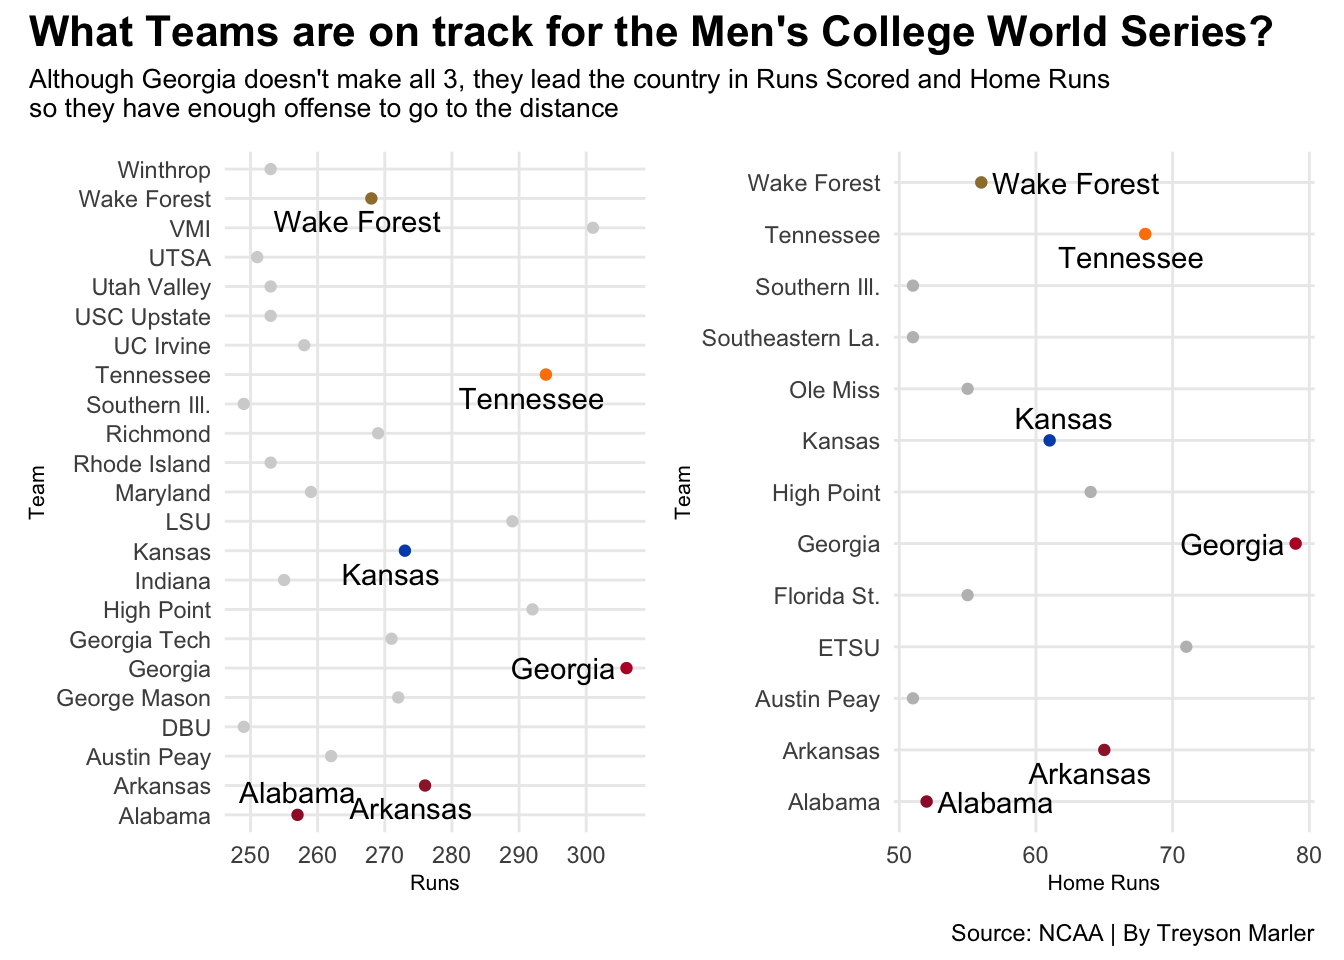
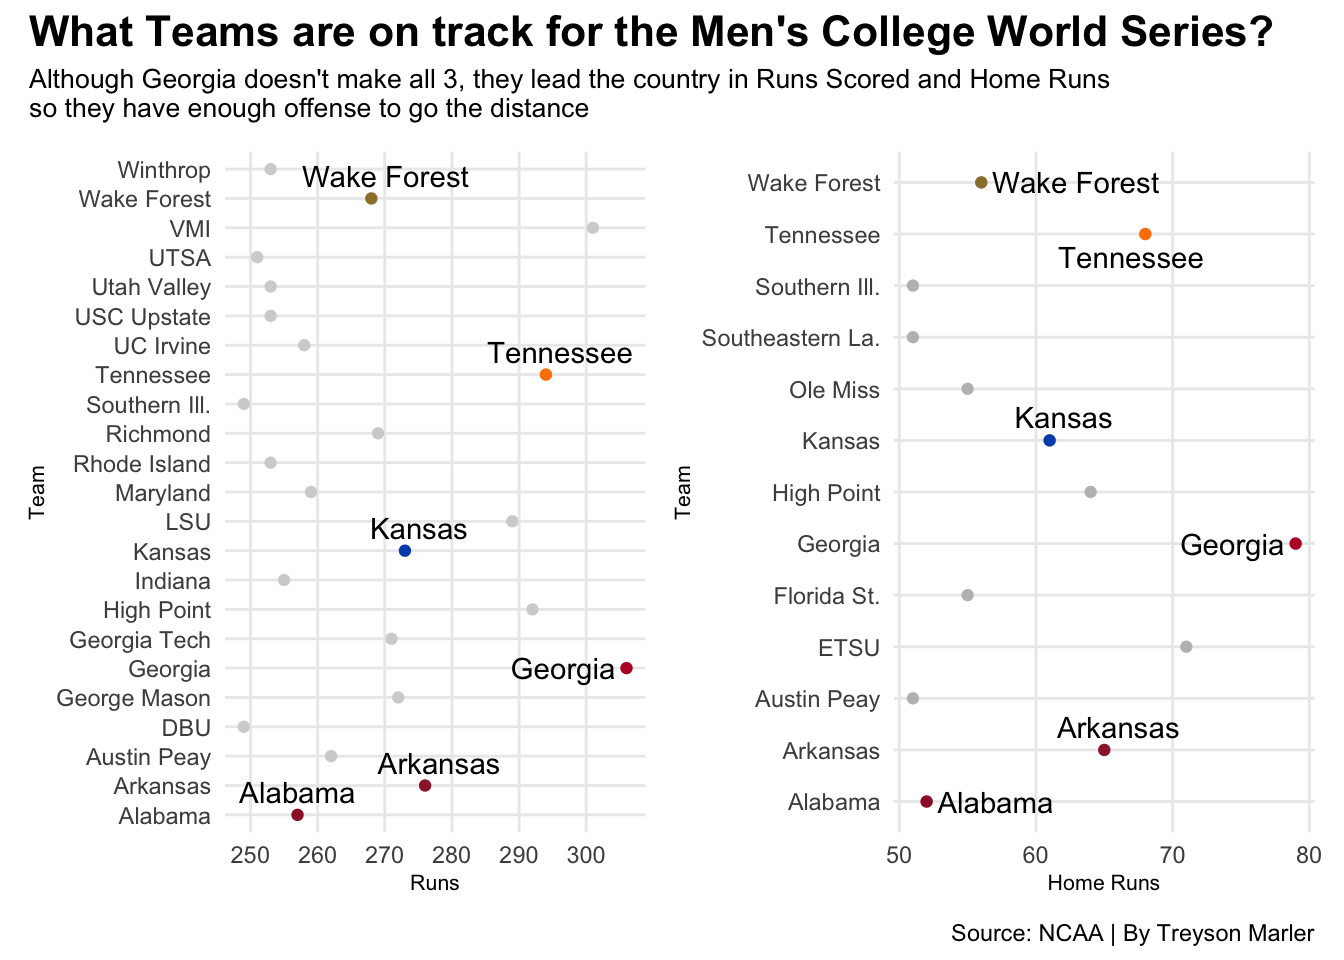
Who is on pace for 2025 Men's CWS

diff --git a/posts/who-is-on-pace-to-make-mens-college-world-series-2025/index.html b/posts/who-is-on-pace-to-make-mens-college-world-series-2025/index.html
@@ -361,23 +361,23 @@ pre > code.sourceCode > span > a:first-child::before { text-decoration: underlin
 <span id="cb2-54"><a href="#cb2-54" aria-hidden="true" tabindex="-1"></a>      <span class="at">rows =</span> School <span class="sc">==</span> <span class="st">"Kansas"</span>))</span></code><button title="Copy to Clipboard" class="code-copy-button"><i class="bi"></i></button></pre></div>
 </details>
 <div class="cell-output-display">
-<div id="tlecctfdpp" style="padding-left:0px;padding-right:0px;padding-top:10px;padding-bottom:10px;overflow-x:auto;overflow-y:auto;width:auto;height:auto;">
-<style>#tlecctfdpp table {
+<div id="qnzvjkfpmd" style="padding-left:0px;padding-right:0px;padding-top:10px;padding-bottom:10px;overflow-x:auto;overflow-y:auto;width:auto;height:auto;">
+<style>#qnzvjkfpmd table {
   font-family: system-ui, 'Segoe UI', Roboto, Helvetica, Arial, sans-serif, 'Apple Color Emoji', 'Segoe UI Emoji', 'Segoe UI Symbol', 'Noto Color Emoji';
   -webkit-font-smoothing: antialiased;
   -moz-osx-font-smoothing: grayscale;
 }
 
-#tlecctfdpp thead, #tlecctfdpp tbody, #tlecctfdpp tfoot, #tlecctfdpp tr, #tlecctfdpp td, #tlecctfdpp th {
+#qnzvjkfpmd thead, #qnzvjkfpmd tbody, #qnzvjkfpmd tfoot, #qnzvjkfpmd tr, #qnzvjkfpmd td, #qnzvjkfpmd th {
   border-style: none;
 }
 
-#tlecctfdpp p {
+#qnzvjkfpmd p {
   margin: 0;
   padding: 0;
 }
 
-#tlecctfdpp .gt_table {
+#qnzvjkfpmd .gt_table {
   display: table;
   border-collapse: collapse;
   line-height: normal;
@@ -403,12 +403,12 @@ pre > code.sourceCode > span > a:first-child::before { text-decoration: underlin
   border-left-color: #D3D3D3;
 }
 
-#tlecctfdpp .gt_caption {
+#qnzvjkfpmd .gt_caption {
   padding-top: 4px;
   padding-bottom: 4px;
 }
 
-#tlecctfdpp .gt_title {
+#qnzvjkfpmd .gt_title {
   color: #333333;
   font-size: 125%;
   font-weight: initial;
@@ -420,7 +420,7 @@ pre > code.sourceCode > span > a:first-child::before { text-decoration: underlin
   border-bottom-width: 0;
 }
 
-#tlecctfdpp .gt_subtitle {
+#qnzvjkfpmd .gt_subtitle {
   color: #333333;
   font-size: 85%;
   font-weight: initial;
@@ -432,7 +432,7 @@ pre > code.sourceCode > span > a:first-child::before { text-decoration: underlin
   border-top-width: 0;
 }
 
-#tlecctfdpp .gt_heading {
+#qnzvjkfpmd .gt_heading {
   background-color: #FFFFFF;
   text-align: center;
   border-bottom-color: #FFFFFF;
@@ -444,13 +444,13 @@ pre > code.sourceCode > span > a:first-child::before { text-decoration: underlin
   border-right-color: #D3D3D3;
 }
 
-#tlecctfdpp .gt_bottom_border {
+#qnzvjkfpmd .gt_bottom_border {
   border-bottom-style: none;
   border-bottom-width: 2px;
   border-bottom-color: #D3D3D3;
 }
 
-#tlecctfdpp .gt_col_headings {
+#qnzvjkfpmd .gt_col_headings {
   border-top-style: none;
   border-top-width: 2px;
   border-top-color: #D3D3D3;
@@ -465,7 +465,7 @@ pre > code.sourceCode > span > a:first-child::before { text-decoration: underlin
   border-right-color: #D3D3D3;
 }
 
-#tlecctfdpp .gt_col_heading {
+#qnzvjkfpmd .gt_col_heading {
   color: #333333;
   background-color: #FFFFFF;
   font-size: 100%;
@@ -485,7 +485,7 @@ pre > code.sourceCode > span > a:first-child::before { text-decoration: underlin
   overflow-x: hidden;
 }
 
-#tlecctfdpp .gt_column_spanner_outer {
+#qnzvjkfpmd .gt_column_spanner_outer {
   color: #333333;
   background-color: #FFFFFF;
   font-size: 100%;
@@ -497,15 +497,15 @@ pre > code.sourceCode > span > a:first-child::before { text-decoration: underlin
   padding-right: 4px;
 }
 
-#tlecctfdpp .gt_column_spanner_outer:first-child {
+#qnzvjkfpmd .gt_column_spanner_outer:first-child {
   padding-left: 0;
 }
 
-#tlecctfdpp .gt_column_spanner_outer:last-child {
+#qnzvjkfpmd .gt_column_spanner_outer:last-child {
   padding-right: 0;
 }
 
-#tlecctfdpp .gt_column_spanner {
+#qnzvjkfpmd .gt_column_spanner {
   border-bottom-style: none;
   border-bottom-width: 2px;
   border-bottom-color: #D3D3D3;
@@ -517,11 +517,11 @@ pre > code.sourceCode > span > a:first-child::before { text-decoration: underlin
   width: 100%;
 }
 
-#tlecctfdpp .gt_spanner_row {
+#qnzvjkfpmd .gt_spanner_row {
   border-bottom-style: hidden;
 }
 
-#tlecctfdpp .gt_group_heading {
+#qnzvjkfpmd .gt_group_heading {
   padding-top: 8px;
   padding-bottom: 8px;
   padding-left: 5px;
@@ -547,7 +547,7 @@ pre > code.sourceCode > span > a:first-child::before { text-decoration: underlin
   text-align: left;
 }
 
-#tlecctfdpp .gt_empty_group_heading {
+#qnzvjkfpmd .gt_empty_group_heading {
   padding: 0.5px;
   color: #333333;
   background-color: #FFFFFF;
@@ -562,15 +562,15 @@ pre > code.sourceCode > span > a:first-child::before { text-decoration: underlin
   vertical-align: middle;
 }
 
-#tlecctfdpp .gt_from_md > :first-child {
+#qnzvjkfpmd .gt_from_md > :first-child {
   margin-top: 0;
 }
 
-#tlecctfdpp .gt_from_md > :last-child {
+#qnzvjkfpmd .gt_from_md > :last-child {
   margin-bottom: 0;
 }
 
-#tlecctfdpp .gt_row {
+#qnzvjkfpmd .gt_row {
   padding-top: 8px;
   padding-bottom: 8px;
   padding-left: 5px;
@@ -589,7 +589,7 @@ pre > code.sourceCode > span > a:first-child::before { text-decoration: underlin
   overflow-x: hidden;
 }
 
-#tlecctfdpp .gt_stub {
+#qnzvjkfpmd .gt_stub {
   color: #333333;
   background-color: #FFFFFF;
   font-size: 100%;
@@ -602,7 +602,7 @@ pre > code.sourceCode > span > a:first-child::before { text-decoration: underlin
   padding-right: 5px;
 }
 
-#tlecctfdpp .gt_stub_row_group {
+#qnzvjkfpmd .gt_stub_row_group {
   color: #333333;
   background-color: #FFFFFF;
   font-size: 100%;
@@ -616,15 +616,15 @@ pre > code.sourceCode > span > a:first-child::before { text-decoration: underlin
   vertical-align: top;
 }
 
-#tlecctfdpp .gt_row_group_first td {
+#qnzvjkfpmd .gt_row_group_first td {
   border-top-width: 2px;
 }
 
-#tlecctfdpp .gt_row_group_first th {
+#qnzvjkfpmd .gt_row_group_first th {
   border-top-width: 2px;
 }
 
-#tlecctfdpp .gt_summary_row {
+#qnzvjkfpmd .gt_summary_row {
   color: #333333;
   background-color: #FFFFFF;
   text-transform: inherit;
@@ -634,16 +634,16 @@ pre > code.sourceCode > span > a:first-child::before { text-decoration: underlin
   padding-right: 5px;
 }
 
-#tlecctfdpp .gt_first_summary_row {
+#qnzvjkfpmd .gt_first_summary_row {
   border-top-style: none;
   border-top-color: #D3D3D3;
 }
 
-#tlecctfdpp .gt_first_summary_row.thick {
+#qnzvjkfpmd .gt_first_summary_row.thick {
   border-top-width: 2px;
 }
 
-#tlecctfdpp .gt_last_summary_row {
+#qnzvjkfpmd .gt_last_summary_row {
   padding-top: 8px;
   padding-bottom: 8px;
   padding-left: 5px;
@@ -653,7 +653,7 @@ pre > code.sourceCode > span > a:first-child::before { text-decoration: underlin
   border-bottom-color: #D3D3D3;
 }
 
-#tlecctfdpp .gt_grand_summary_row {
+#qnzvjkfpmd .gt_grand_summary_row {
   color: #333333;
   background-color: #FFFFFF;
   text-transform: inherit;
@@ -663,7 +663,7 @@ pre > code.sourceCode > span > a:first-child::before { text-decoration: underlin
   padding-right: 5px;
 }
 
-#tlecctfdpp .gt_first_grand_summary_row {
+#qnzvjkfpmd .gt_first_grand_summary_row {
   padding-top: 8px;
   padding-bottom: 8px;
   padding-left: 5px;
@@ -673,7 +673,7 @@ pre > code.sourceCode > span > a:first-child::before { text-decoration: underlin
   border-top-color: #D3D3D3;
 }
 
-#tlecctfdpp .gt_last_grand_summary_row_top {
+#qnzvjkfpmd .gt_last_grand_summary_row_top {
   padding-top: 8px;
   padding-bottom: 8px;
   padding-left: 5px;
@@ -683,11 +683,11 @@ pre > code.sourceCode > span > a:first-child::before { text-decoration: underlin
   border-bottom-color: #D3D3D3;
 }
 
-#tlecctfdpp .gt_striped {
+#qnzvjkfpmd .gt_striped {
   background-color: rgba(128, 128, 128, 0.05);
 }
 
-#tlecctfdpp .gt_table_body {
+#qnzvjkfpmd .gt_table_body {
   border-top-style: none;
   border-top-width: 2px;
   border-top-color: #D3D3D3;
@@ -696,7 +696,7 @@ pre > code.sourceCode > span > a:first-child::before { text-decoration: underlin
   border-bottom-color: #D3D3D3;
 }
 
-#tlecctfdpp .gt_footnotes {
+#qnzvjkfpmd .gt_footnotes {
   color: #333333;
   background-color: #FFFFFF;
   border-bottom-style: none;
@@ -710,7 +710,7 @@ pre > code.sourceCode > span > a:first-child::before { text-decoration: underlin
   border-right-color: #D3D3D3;
 }
 
-#tlecctfdpp .gt_footnote {
+#qnzvjkfpmd .gt_footnote {
   margin: 0px;
   font-size: 90%;
   padding-top: 4px;
@@ -719,7 +719,7 @@ pre > code.sourceCode > span > a:first-child::before { text-decoration: underlin
   padding-right: 5px;
 }
 
-#tlecctfdpp .gt_sourcenotes {
+#qnzvjkfpmd .gt_sourcenotes {
   color: #333333;
   background-color: #FFFFFF;
   border-bottom-style: none;
@@ -733,7 +733,7 @@ pre > code.sourceCode > span > a:first-child::before { text-decoration: underlin
   border-right-color: #D3D3D3;
 }
 
-#tlecctfdpp .gt_sourcenote {
+#qnzvjkfpmd .gt_sourcenote {
   font-size: 90%;
   padding-top: 4px;
   padding-bottom: 4px;
@@ -741,72 +741,72 @@ pre > code.sourceCode > span > a:first-child::before { text-decoration: underlin
   padding-right: 5px;
 }
 
-#tlecctfdpp .gt_left {
+#qnzvjkfpmd .gt_left {
   text-align: left;
 }
 
-#tlecctfdpp .gt_center {
+#qnzvjkfpmd .gt_center {
   text-align: center;
 }
 
-#tlecctfdpp .gt_right {
+#qnzvjkfpmd .gt_right {
   text-align: right;
   font-variant-numeric: tabular-nums;
 }
 
-#tlecctfdpp .gt_font_normal {
+#qnzvjkfpmd .gt_font_normal {
   font-weight: normal;
 }
 
-#tlecctfdpp .gt_font_bold {
+#qnzvjkfpmd .gt_font_bold {
   font-weight: bold;
 }
 
-#tlecctfdpp .gt_font_italic {
+#qnzvjkfpmd .gt_font_italic {
   font-style: italic;
 }
 
-#tlecctfdpp .gt_super {
+#qnzvjkfpmd .gt_super {
   font-size: 65%;
 }
 
-#tlecctfdpp .gt_footnote_marks {
+#qnzvjkfpmd .gt_footnote_marks {
   font-size: 75%;
   vertical-align: 0.4em;
   position: initial;
 }
 
-#tlecctfdpp .gt_asterisk {
+#qnzvjkfpmd .gt_asterisk {
   font-size: 100%;
   vertical-align: 0;
 }
 
-#tlecctfdpp .gt_indent_1 {
+#qnzvjkfpmd .gt_indent_1 {
   text-indent: 5px;
 }
 
-#tlecctfdpp .gt_indent_2 {
+#qnzvjkfpmd .gt_indent_2 {
   text-indent: 10px;
 }
 
-#tlecctfdpp .gt_indent_3 {
+#qnzvjkfpmd .gt_indent_3 {
   text-indent: 15px;
 }
 
-#tlecctfdpp .gt_indent_4 {
+#qnzvjkfpmd .gt_indent_4 {
   text-indent: 20px;
 }
 
-#tlecctfdpp .gt_indent_5 {
+#qnzvjkfpmd .gt_indent_5 {
   text-indent: 25px;
 }
 
-#tlecctfdpp .katex-display {
+#qnzvjkfpmd .katex-display {
   display: inline-flex !important;
   margin-bottom: 0.75em !important;
 }
 
-#tlecctfdpp div.Reactable > div.rt-table > div.rt-thead > div.rt-tr.rt-tr-group-header > div.rt-th-group:after {
+#qnzvjkfpmd div.Reactable > div.rt-table > div.rt-thead > div.rt-tr.rt-tr-group-header > div.rt-th-group:after {
   height: 0px !important;
 }
 </style>
@@ -1000,7 +1000,7 @@ pre > code.sourceCode > span > a:first-child::before { text-decoration: underlin
 <span id="cb3-115"><a href="#cb3-115" aria-hidden="true" tabindex="-1"></a><span class="fu">plot_annotation</span>(</span>
 <span id="cb3-116"><a href="#cb3-116" aria-hidden="true" tabindex="-1"></a>    <span class="at">title =</span> <span class="st">"What Teams are on track for the Men's College World Series?"</span>,</span>
 <span id="cb3-117"><a href="#cb3-117" aria-hidden="true" tabindex="-1"></a>    <span class="at">subtitle =</span> <span class="st">"Although Georgia doesn't make all 3, they lead the country in Runs Scored and Home Runs </span></span>
-<span id="cb3-118"><a href="#cb3-118" aria-hidden="true" tabindex="-1"></a><span class="st">so they have enough offense to go to the distance"</span>,</span>
+<span id="cb3-118"><a href="#cb3-118" aria-hidden="true" tabindex="-1"></a><span class="st">so they have enough offense to go the distance"</span>,</span>
 <span id="cb3-119"><a href="#cb3-119" aria-hidden="true" tabindex="-1"></a>    <span class="at">caption =</span> <span class="st">"Source: NCAA | By Treyson Marler"</span></span>
 <span id="cb3-120"><a href="#cb3-120" aria-hidden="true" tabindex="-1"></a>  ) <span class="sc">&amp;</span> </span>
 <span id="cb3-121"><a href="#cb3-121" aria-hidden="true" tabindex="-1"></a>  <span class="fu">theme</span>(</span>

diff --git a/index.html b/index.html
@@ -183,7 +183,7 @@ window.Quarto = {
 
 <div class="quarto-listing quarto-listing-container-default" id="listing-listing">
 <div class="list quarto-listing-default">
-<div class="quarto-post image-right" data-index="0" data-categories="college,baseball,omaha" data-listing-date-sort="1744606800000" data-listing-file-modified-sort="1744663209828" data-listing-date-modified-sort="NaN" data-listing-reading-time-sort="14" data-listing-word-count-sort="2616">
+<div class="quarto-post image-right" data-index="0" data-categories="college,baseball,omaha" data-listing-date-sort="1744606800000" data-listing-file-modified-sort="1744663540497" data-listing-date-modified-sort="NaN" data-listing-reading-time-sort="14" data-listing-word-count-sort="2615">
 <div class="thumbnail">
 <p><a href="./posts/who-is-on-pace-to-make-mens-college-world-series-2025/index.html" class="no-external"></a></p><a href="./posts/who-is-on-pace-to-make-mens-college-world-series-2025/index.html" class="no-external">
 <p><img loading="lazy" src="./posts/who-is-on-pace-to-make-mens-college-world-series-2025/image.png" class="thumbnail-image"></p>
